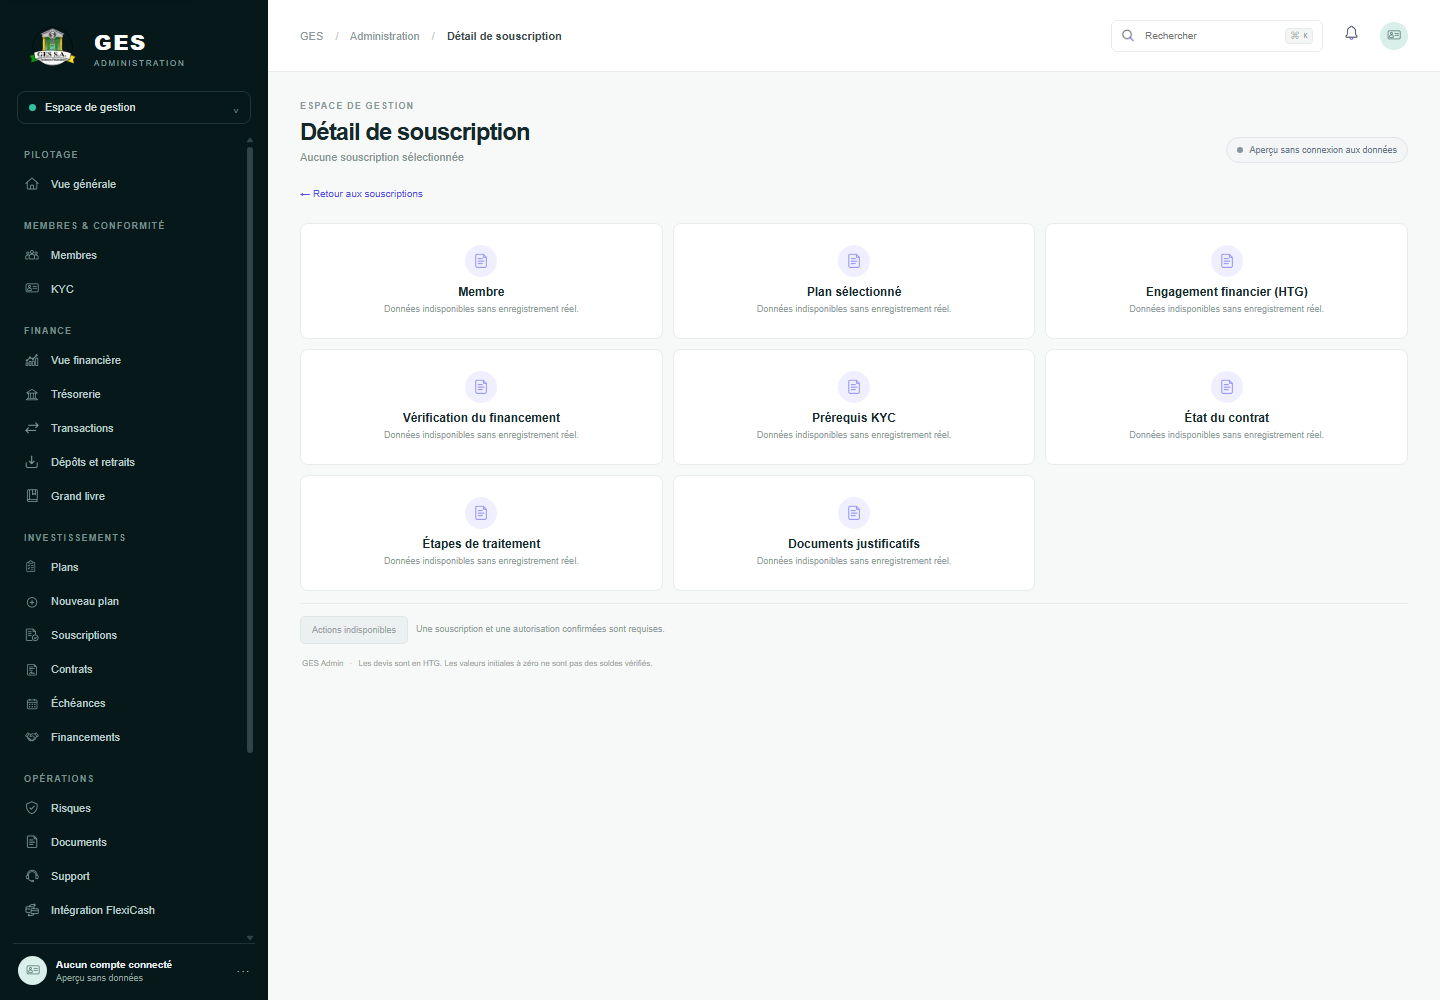
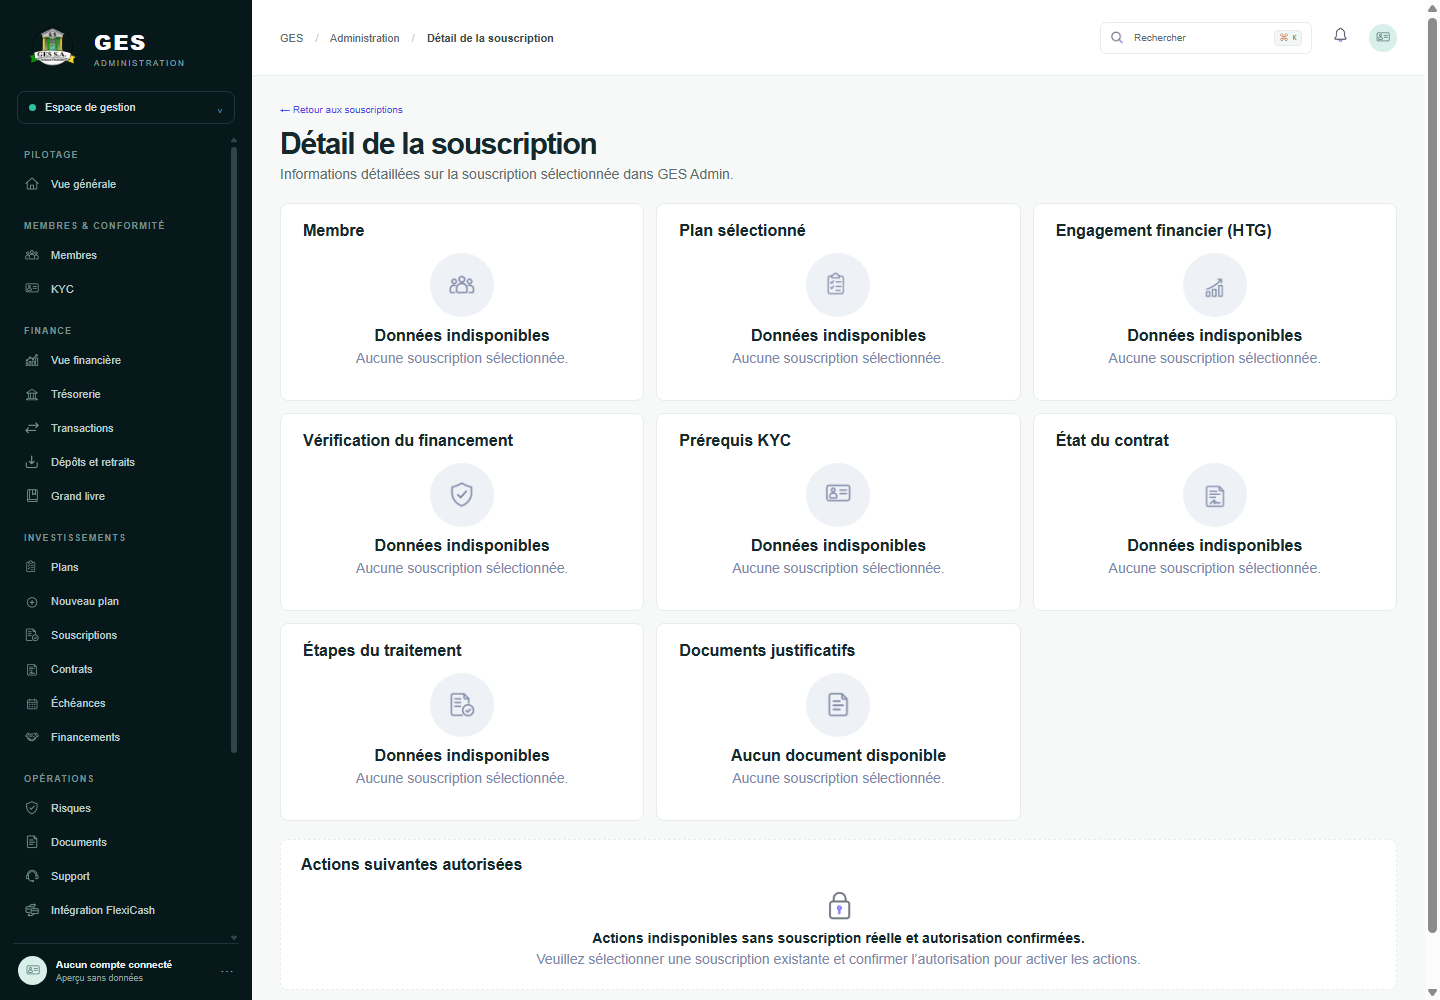
Align subscription detail with MF-17

diff --git a/components/admin-shell.tsx b/components/admin-shell.tsx
@@ -33,7 +33,7 @@ const detailPages: Record<string, { title: string; subtitle: string }> = {
   "membres/dossier": { title: "Fiche membre", subtitle: "Aucun membre sélectionné" },
   "kyc/dossier": { title: "Dossier KYC", subtitle: "Aucun dossier sélectionné" },
   "transactions/dossier": { title: "Détail de transaction", subtitle: "Aucune transaction sélectionnée" },
-  "souscriptions/dossier": { title: "Détail de souscription", subtitle: "Aucune souscription sélectionnée" },
+  "souscriptions/dossier": { title: "Détail de la souscription", subtitle: "Informations détaillées sur la souscription sélectionnée dans GES Admin." },
   "contrats/dossier": { title: "Détail de contrat", subtitle: "Aucun contrat sélectionné" },
   "risques/incident": { title: "Détail d’incident", subtitle: "Aucun incident sélectionné" },
   "support/conversation": { title: "Conversation de support", subtitle: "Aucun ticket sélectionné" },
@@ -148,7 +148,7 @@ export function AdminShell({ section }: { section: string }) {
     </aside>
     {menuOpen && <button className="drawer-backdrop visible" type="button" aria-label="Fermer le menu" tabIndex={-1} onClick={closeMenu}/>}
     <main className="main-area" id="main-content" tabIndex={-1} inert={menuOpen}><header className="topbar"><button ref={menuButtonRef} className="mobile-menu-toggle" onClick={() => menuOpen ? closeMenu() : setMenuOpen(true)} aria-label={menuOpen ? "Fermer le menu" : "Ouvrir le menu"} aria-expanded={menuOpen} aria-controls="primary-navigation">{menuOpen ? <Image src="/assets/icons/close.webp" alt="" width={19} height={19}/> : <span className="menu-bars" aria-hidden="true"/>}</button><div className="breadcrumb">GES <span>/</span> Administration <span>/</span> <b>{page.title}</b></div><div className="top-actions"><label className="search"><Image src="/assets/icons/search.webp" alt="" width={15} height={15}/><input placeholder="Rechercher" aria-label="Rechercher" value={searchQuery} onChange={(event) => setSearchQuery(event.target.value)}/><kbd>⌘ K</kbd></label><Link href="/admin/notifications" className="bell" aria-label="Notifications"><Image src="/assets/icons/notification.webp" alt="" width={19} height={19}/></Link><div className="top-avatar"><Image src="/assets/icons/identity.webp" alt="" width={16} height={16}/></div></div></header>
-      <div className={`content ${key === "plans/nouveau" ? "plan-content" : ""}`}><div className="page-heading"><div>{key !== "transactions" && <div className="eyebrow">ESPACE DE GESTION</div>}<h1>{page.title}</h1><p>{page.subtitle}</p></div><div className="heading-actions"><span className="status-pill preview-pill"><i/> Aperçu sans connexion aux données</span></div></div>
+      <div className={`content ${key === "plans/nouveau" ? "plan-content" : ""}`}>{key === "souscriptions/dossier" && <Link className="detail-back" href="/admin/souscriptions">← Retour aux souscriptions</Link>}<div className="page-heading"><div>{key !== "transactions" && key !== "souscriptions/dossier" && <div className="eyebrow">ESPACE DE GESTION</div>}<h1>{page.title}</h1><p>{page.subtitle}</p></div><div className="heading-actions">{key !== "souscriptions/dossier" && <span className="status-pill preview-pill"><i/> Aperçu sans connexion aux données</span>}</div></div>
       {key === "notifications" ? <NotificationsWorkspace query={searchQuery} onQueryChange={setSearchQuery}/> : key === "plans/nouveau" ? <><Link href="/admin/plans" className="plan-back">← Retour aux plans</Link><PlanForm/></> : overview ? <>{financial && <div className="module-notice">Valeurs initiales — les montants affichés sont à confirmer et ne constituent pas des soldes vérifiés.</div>}<div className={`metric-grid ${financial ? "financial-metrics" : ""}`}>{metrics.map(([label,value,caption])=><MetricCard key={label} label={label} value={value} caption={caption}/>)}</div>
       {financial && <UsdUnavailable/>}
       <div className={`overview-grid ${financial ? "financial-overview-grid" : "command-overview-grid"}`}><section className="panel"><div className="panel-head"><div><h2>{financial ? "Tendance de trésorerie" : "Tendance financière"}</h2></div>{financial && <button className="select-button" disabled title="Les données sont indisponibles">Période⌄</button>}</div><div className="chart-empty"><div className="chart-lines"><span/><span/><span/><span/></div><div className="chart-message">Aucune donnée disponible</div></div></section><section className="panel breakdown"><div className="panel-head"><div><h2>{financial ? "Obligations à venir" : "Répartition des investissements"}</h2></div>{financial && <button className="dots" disabled aria-label="Options indisponibles">···</button>}</div>{financial ? <div className="donut-wrap"><p>Aucune donnée disponible</p></div> : <div className="donut-wrap"><div className="donut"><div/></div><p>Aucune donnée disponible</p></div>}</section></div>

diff --git a/components/detail-workspace.tsx b/components/detail-workspace.tsx
@@ -31,9 +31,12 @@ export function DetailWorkspace({ sectionKey }: { sectionKey: string }) {
     <div className="module-two-panels"><Unavailable title="Historique de traitement"/><Unavailable title="Journal d’audit"/></div>
   </>;
   if (sectionKey === "souscriptions/dossier") return <>
-    <BackLink href="/admin/souscriptions" label="Retour aux souscriptions"/>
-    <div className="module-detail-grid">{["Membre", "Plan sélectionné", "Engagement financier (HTG)", "Vérification du financement", "Prérequis KYC", "État du contrat", "Étapes de traitement", "Documents justificatifs"].map((title) => <Unavailable key={title} title={title}/>)}</div>
-    <div className="detail-actions"><button disabled>Actions indisponibles</button><span>Une souscription et une autorisation confirmées sont requises.</span></div>
+    <div className="module-detail-grid subscription-detail-grid">{[
+      ["Membre", "members"], ["Plan sélectionné", "plan"], ["Engagement financier (HTG)", "investment"],
+      ["Vérification du financement", "risk"], ["Prérequis KYC", "identity"], ["État du contrat", "contract"],
+      ["Étapes du traitement", "subscription"], ["Documents justificatifs", "document"],
+    ].map(([title, icon]) => <article className="panel detail-data-card" key={title}><h2>{title}</h2><div className="subscription-detail-state"><div className="detail-data-icon"><Image src={`/assets/icons/${icon}.webp`} alt="" width={28} height={28}/></div><strong>{title === "Documents justificatifs" ? "Aucun document disponible" : "Données indisponibles"}</strong><p>Aucune souscription sélectionnée.</p></div></article>)}</div>
+    <section className="panel subscription-actions-panel"><h2>Actions suivantes autorisées</h2><div className="subscription-actions-empty"><Image src="/assets/icons/security.webp" alt="" width={34} height={34}/><strong>Actions indisponibles sans souscription réelle et autorisation confirmées.</strong><p>Veuillez sélectionner une souscription existante et confirmer l’autorisation pour activer les actions.</p></div></section>
   </>;
   if (sectionKey === "contrats/dossier") return <>
     <BackLink href="/admin/contrats" label="Retour aux contrats"/>

diff --git a/app/globals.css b/app/globals.css
@@ -61,3 +61,4 @@ a:focus-visible,button:focus-visible,input:focus-visible,select:focus-visible,te
 @media(min-width:1100px){.plan-advanced-grid:has(> .plan-preview-section[open]){grid-template-columns:repeat(3,minmax(0,1fr))}.plan-advanced-grid:has(> .plan-preview-section[open]) .plan-preview-section{grid-column:1/-1}.plan-advanced-grid:has(> .plan-preview-section[open]) .plan-preview-section .plan-publication-actions{margin-top:12px}}.plan-advanced-grid:has(> details[open]:not(.plan-preview-section))+.plan-publication-footer{display:grid}.plan-advanced-grid:has(> .plan-preview-section[open])+.plan-publication-footer{display:none}
 
 .plan-advanced-grid:has(> details[open])+.plan-publication-footer{display:grid}
+.subscription-detail-grid{gap:12px;margin:14px 0 18px}.subscription-detail-grid .detail-data-card{min-height:198px;align-items:stretch;justify-content:flex-start;padding:18px 22px;text-align:left}.subscription-detail-grid .detail-data-card>h2,.subscription-actions-panel>h2{font:700 16px Arial,Helvetica,sans-serif;margin:0}.subscription-detail-state{flex:1;display:flex;align-items:center;justify-content:center;flex-direction:column;text-align:center}.subscription-detail-state .detail-data-icon{width:64px;height:64px;margin-bottom:10px;background:#eef1f5}.subscription-detail-state .detail-data-icon img{width:30px;height:30px;filter:brightness(0) saturate(100%) invert(40%) sepia(13%) saturate(1200%) hue-rotate(188deg) brightness(90%)}.subscription-detail-state strong{font-size:16px;margin-bottom:3px}.subscription-detail-state p,.subscription-actions-empty p{margin:0;color:#7c88ac;font-size:14px;line-height:1.45}.subscription-actions-panel{padding:16px 20px;border-style:dashed}.subscription-actions-empty{display:flex;align-items:center;justify-content:center;flex-direction:column;text-align:center;padding:15px 0 4px}.subscription-actions-empty img{margin-bottom:7px;opacity:.6}.subscription-actions-empty strong{font-size:14px}.subscription-actions-empty p{margin-top:3px}

diff --git a/design/project-status.md b/design/project-status.md
@@ -51,3 +51,5 @@ MF-02 : le champ TOTP est limité à six chiffres et n’accepte que des chiffre
 Revue MF-14 (29 octobre 2026) : titre et sous-titre aligns sur la reference; titre de panneau redondant retire et filtre secondaire libelle Trier par. La creation reste accessible depuis la navigation. Captures admin-plans-1440x1000.png et admin-plans-390x844.png. Chrome confirme un catalogue sans plan fictif, sans debordement horizontal de page aux deux largeurs; la table garde son defilement horizontal interne sur mobile. Comparaison proposee, non verrouillee.
 
 Revue MF-16 (29 octobre 2026) : sous-titre, recherche et casse des colonnes rapproches de la reference. Les captures desktop/mobile montrent une liste sans souscription fictive; les montants sont identifies en HTG. Chrome confirme l'absence de debordement horizontal de page a 1440 px et 390 px. Comparaison MF-01 a MF-34 regeneree; MF-02 attend une session MFA reelle.
+
+Revue MF-17 (29 octobre 2026) : lien de retour avant le titre, titre/sous-titre alignes sur la reference, huit cartes detaillees avec icones distinctes et panneau d'actions verrouille. Aucun engagement, identite ou document fictif. Captures desktop/mobile; le navigateur confirme le titre, l'etat vide et aucune largeur de page superieure au viewport (1440/390 px). MF-17 reste non verrouille en attente de revue complete du shell.

diff --git a/design/qa/README.md b/design/qa/README.md
@@ -147,3 +147,5 @@ Reverification MF-15 du 29 octobre : états desktop replié (1440 × 1100), ouve
 Revue MF-14 : les captures admin-plans-1440x1000.png et admin-plans-390x844.png couvrent le catalogue vide. Le filtre secondaire est Trier par, aucun plan fictif n'est affiche, et Chrome DevTools confirme l'absence de debordement de page aux deux largeurs. Sur 390 px, le tableau possede un defilement horizontal interne.
 
 Captures MF-16 : admin-souscriptions-1440x1000.png et admin-souscriptions-390x844.png. La liste reste vide tant qu'aucune source GES autorisee ne fournit les donnees; les montants sont libelles en HTG. Les neuf planches MF-01 a MF-34 ont ete regenerees apres les changements de MF-14/MF-16.
+
+Captures MF-17 mises a jour : admin-souscriptions-dossier-1440x1000.png et admin-souscriptions-dossier-390x844.png. Le retour precede le titre; huit panneaux restent indisponibles sans souscription reelle et les actions sont inactives. Aucun engagement ni montant fictif.
